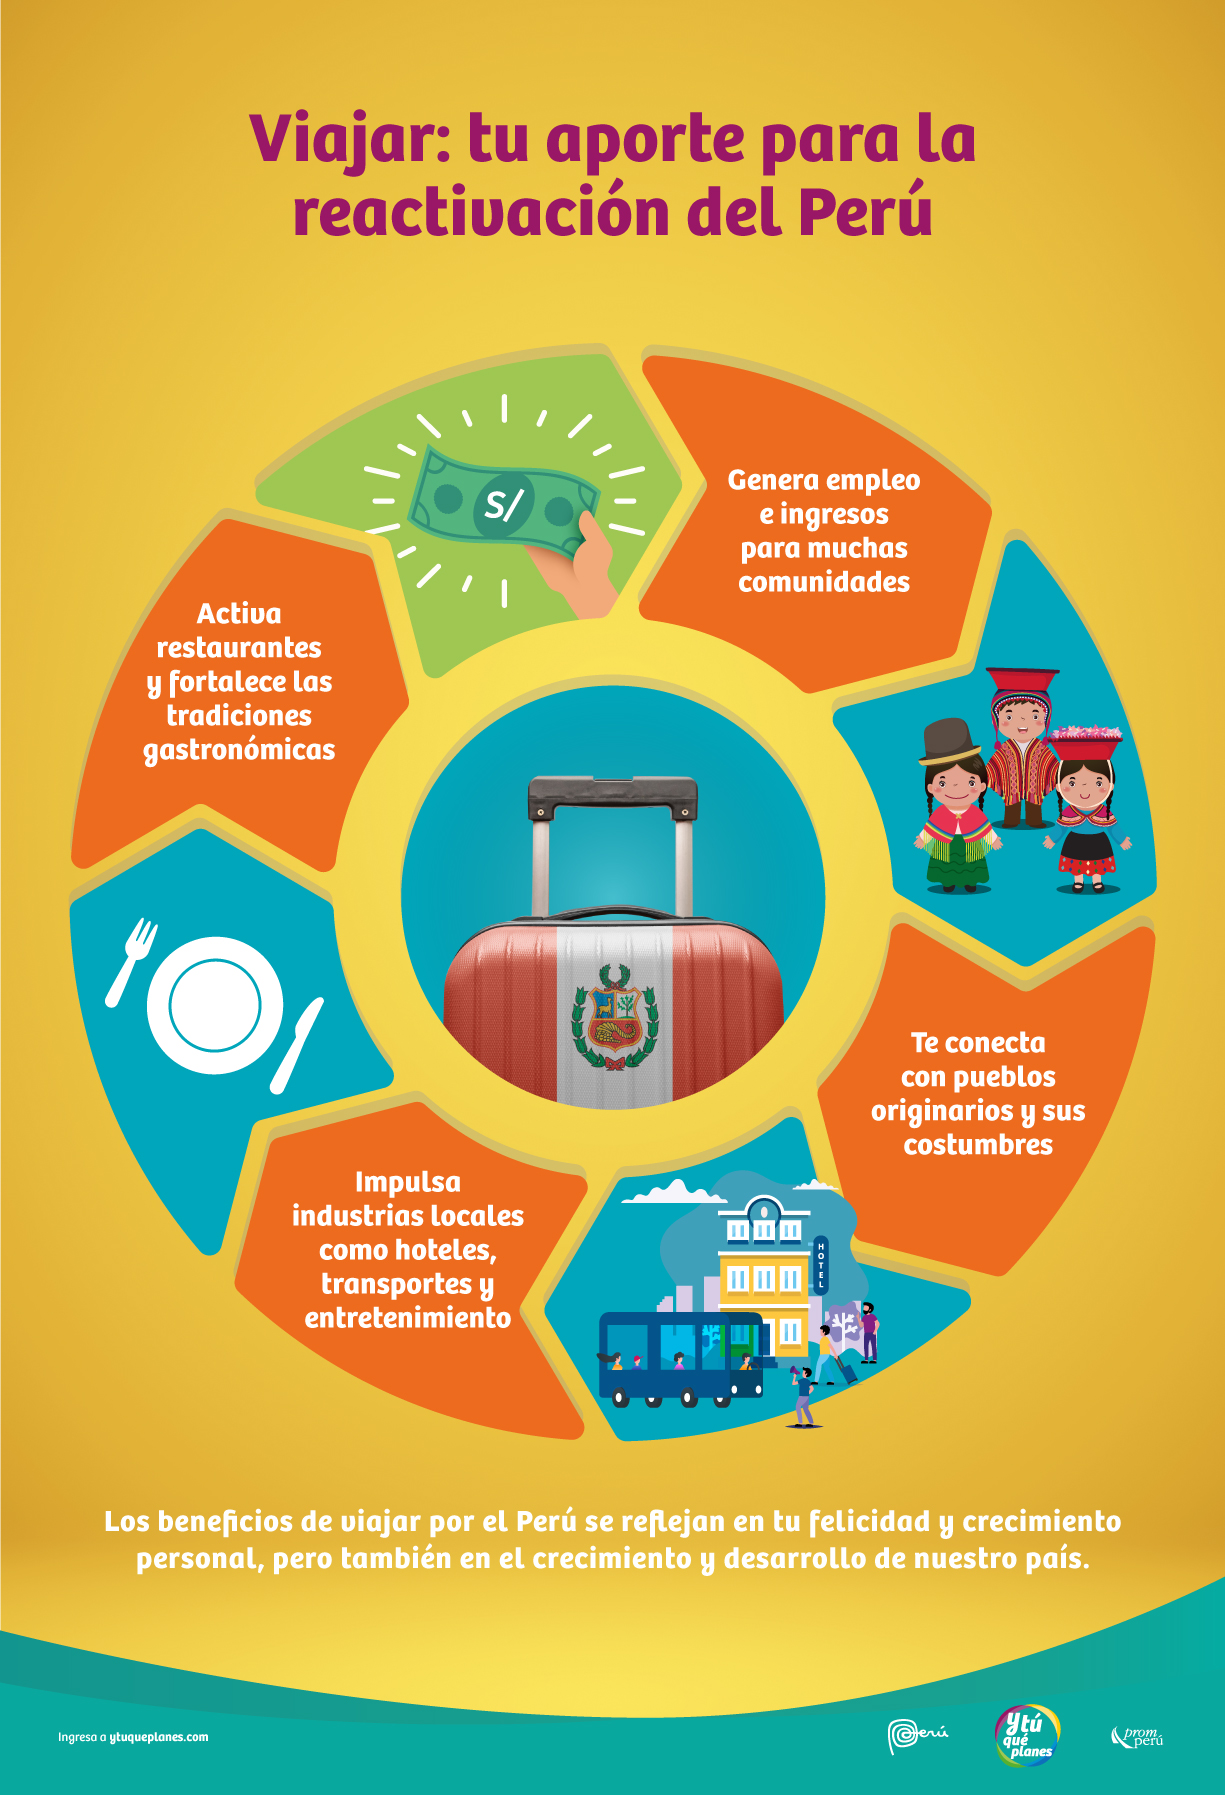
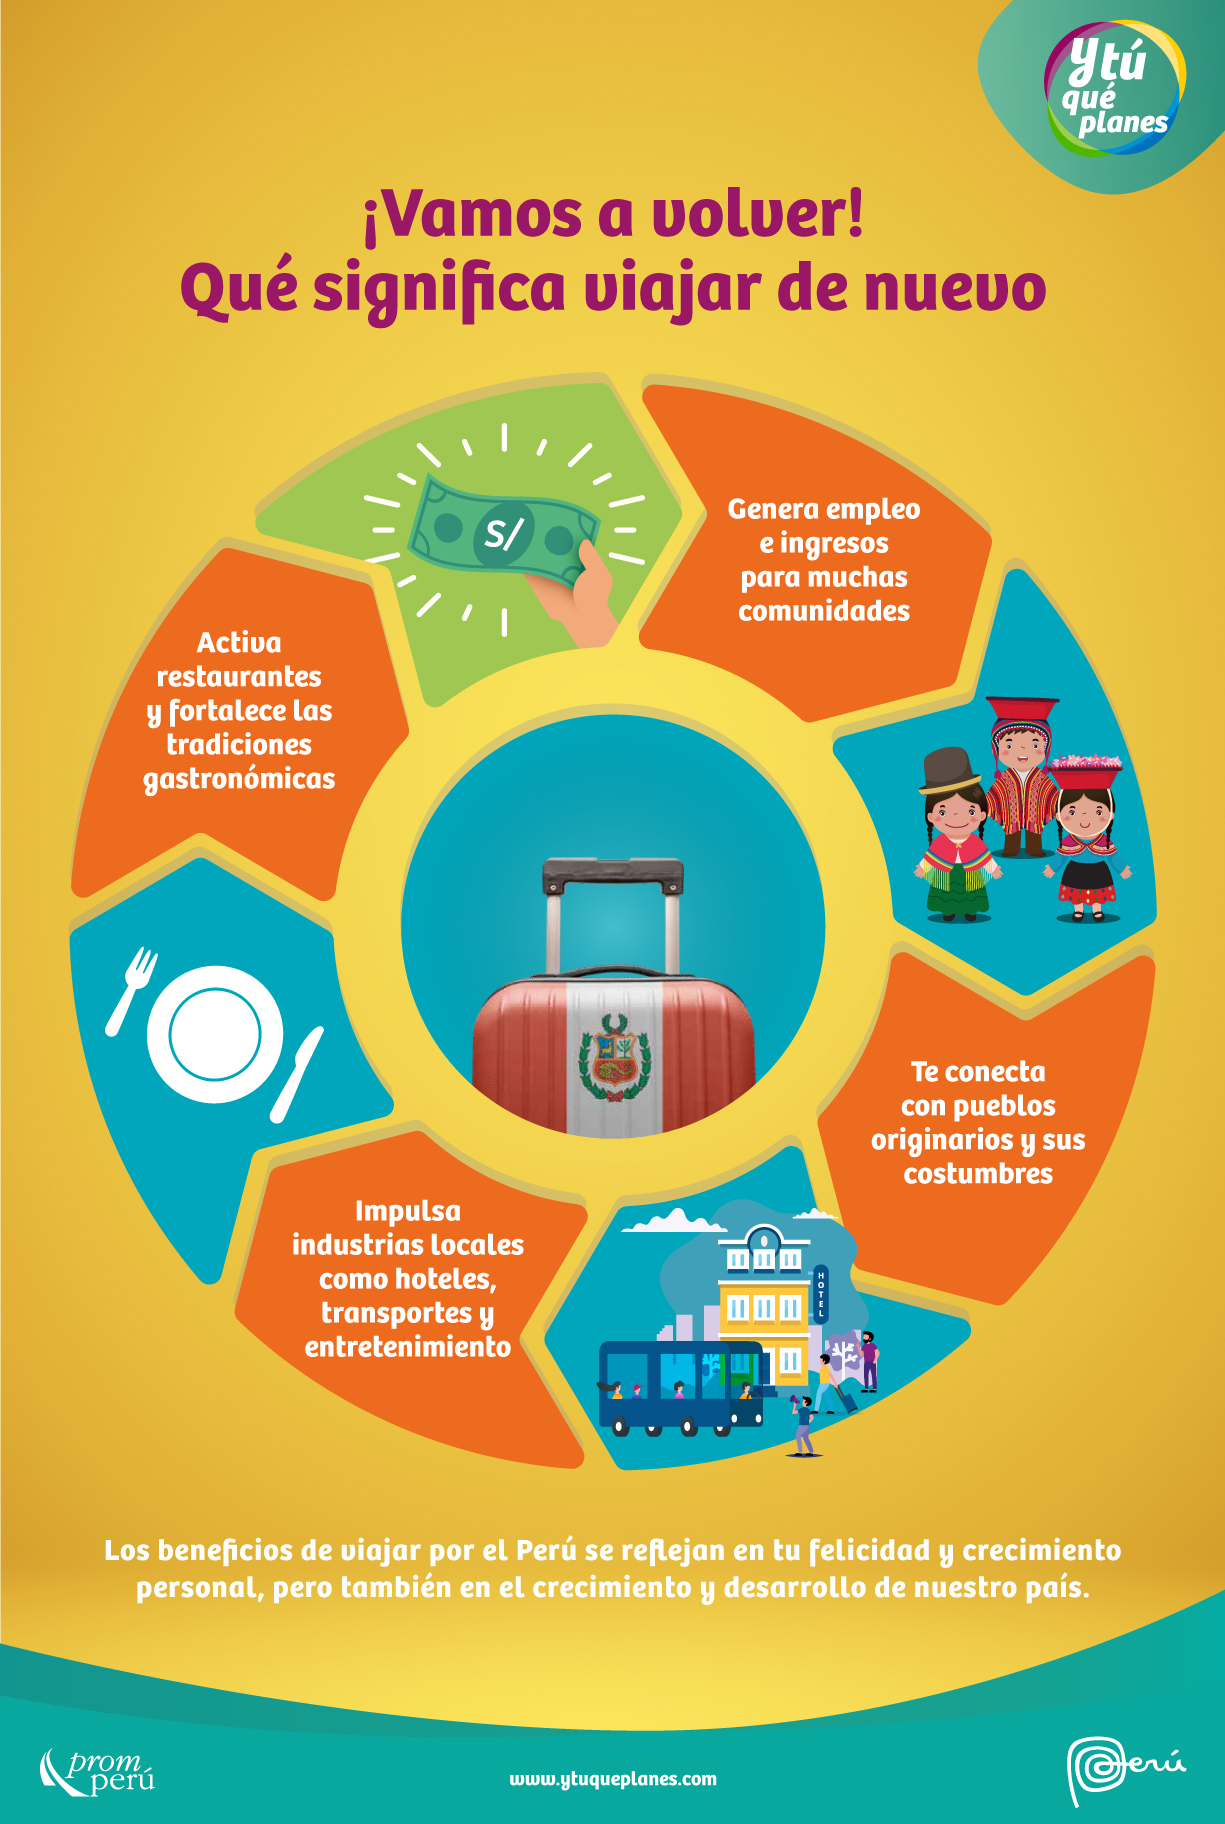
dev package

diff --git a/src/components/single/main-content/MainContent.jsx b/src/components/single/main-content/MainContent.jsx
@@ -34,11 +34,16 @@ const MainContent = ({
           <Text className={styles.title} content={title} />
           <Text className={styles.date} content={date} />
           <Paragraph source={content} />
-          <img alt={alt_footer} className={ footer === '' ? styles.date : styles.img } src={footer} />
+          <img
+            alt={alt_footer}
+            className={footer === "" ? styles.date : styles.img}
+            src={footer}
+          />
           <p className={styles.footer}>
-            Demuestra una vez más que los peruanos somos responsables y
-            solidarios. De ti depende que más compatriotas estén libres del
-            COVID-19. Recuerda, <strong>#PrimeroMiSalud</strong>.
+            Vamos a volver. Cuando lo hagamos, seremos los protagonistas de la
+            reactivación económica del Perú. <strong>#VamosaVolver</strong>{" "}
+            <strong>#PrimeroMiSalud</strong>{" "}
+            <strong>#YTúQuéPlanes</strong>.
           </p>
           {/* 
           key={post.id}

diff --git a/src/components/general/hero/hero.stories.js b/src/components/general/hero/hero.stories.js
@@ -26,7 +26,7 @@ export const HeroHome = () => {
         >
             <div className={styles.content_home}>
                 <img className={styles.promperu} src={promperu} alt="promperu-logo" />
-                <Text headingLevel="h1" className={styles.text_home} content="Vamos a volver" />
+                <Text headingLevel="h1" className={styles.text_home} content="¡Vamos a volver!" />
                 <a href="https://ytuqueplanes.com/" target="_blank" rel="noopener noreferrer"><img className={styles.logo} src={Logo} alt="ytuqueplanes-logo" /></a>
                 {/*<ButtonHomeHero />*/}
             </div>

diff --git a/src/components/general/button/ButtonNew.jsx b/src/components/general/button/ButtonNew.jsx
@@ -1,11 +1,11 @@
 import React, { Fragment } from "react";
 import { Link } from "react-router-dom";
 
-const Button = ({ children, className, url, action, onClick, anchor, to }) => {
+const Button = ({ children, className, url, action, onClick, anchor, to, name }) => {
   return (
     <Fragment>
       {action ? (
-        <button onClick={onClick} className={className}>
+        <button name={name} onClick={onClick} className={className}>
           {children}
         </button>
       ) : anchor ? (

diff --git a/src/components/general/hero/hero.module.scss b/src/components/general/hero/hero.module.scss
@@ -5,11 +5,11 @@
 }
 .text_home {
   font-family: BreePeru;
-  font-size: 41px;
+  font-size: 52px;
   font-weight: bold;
   color: white;
   text-align: center;
-  margin-top: 150px;
+  margin-top: 50px;
   text-shadow: 2px 6px 8px black;
   cursor: default;
 }
@@ -38,12 +38,12 @@
   margin-top: 15px;
 }
 .promperu{
-  width: 200px;
+  width: 130px;
   top: 0;
   left: 0;
   position: absolute;
-  margin-top: 20px;
-  margin-left: 40px;
+  margin-top: 40px;
+  margin-left: 50px;
 }
 
 //Single

diff --git a/src/components/general/button/button.stories.js b/src/components/general/button/button.stories.js
@@ -34,7 +34,7 @@ export const ButtonHomeMedidas = () => {
 
 export const ButtonHomeMedidasCard = ({green}) => {
     return (
-        <Button action className={green ? styles.wrapper_home_medidas_card_green : styles.wrapper_home_medidas_card}>
+        <Button name="Leer más" action className={green ? styles.wrapper_home_medidas_card_green : styles.wrapper_home_medidas_card}>
             Leer más
         </Button>
     )

diff --git a/src/components/home/notas/Notas.jsx b/src/components/home/notas/Notas.jsx
@@ -17,7 +17,7 @@ const Notas = () => {
         headingLevel="h2"
         content="Dale	un vistazo a estos contenidos	desde	la	
         comodidad	de tu	hogar. Viaja por el Perú y descubre	sus	lugares	turísticos con un	
-        solo click"
+        solo clic"
       />
       <div className={styles.card_container}>
         <CardNotasLg

diff --git a/src/components/home/notas/categoria/categoria.stories.js b/src/components/home/notas/categoria/categoria.stories.js
@@ -9,7 +9,7 @@ export default {
 
 export const CategoriaTexto = ({content}) => {
     return (
-        <button className={styles.wrapper_button}>
+        <button name="Ver nota" className={styles.wrapper_button}>
             {content}
         </button>
     )
